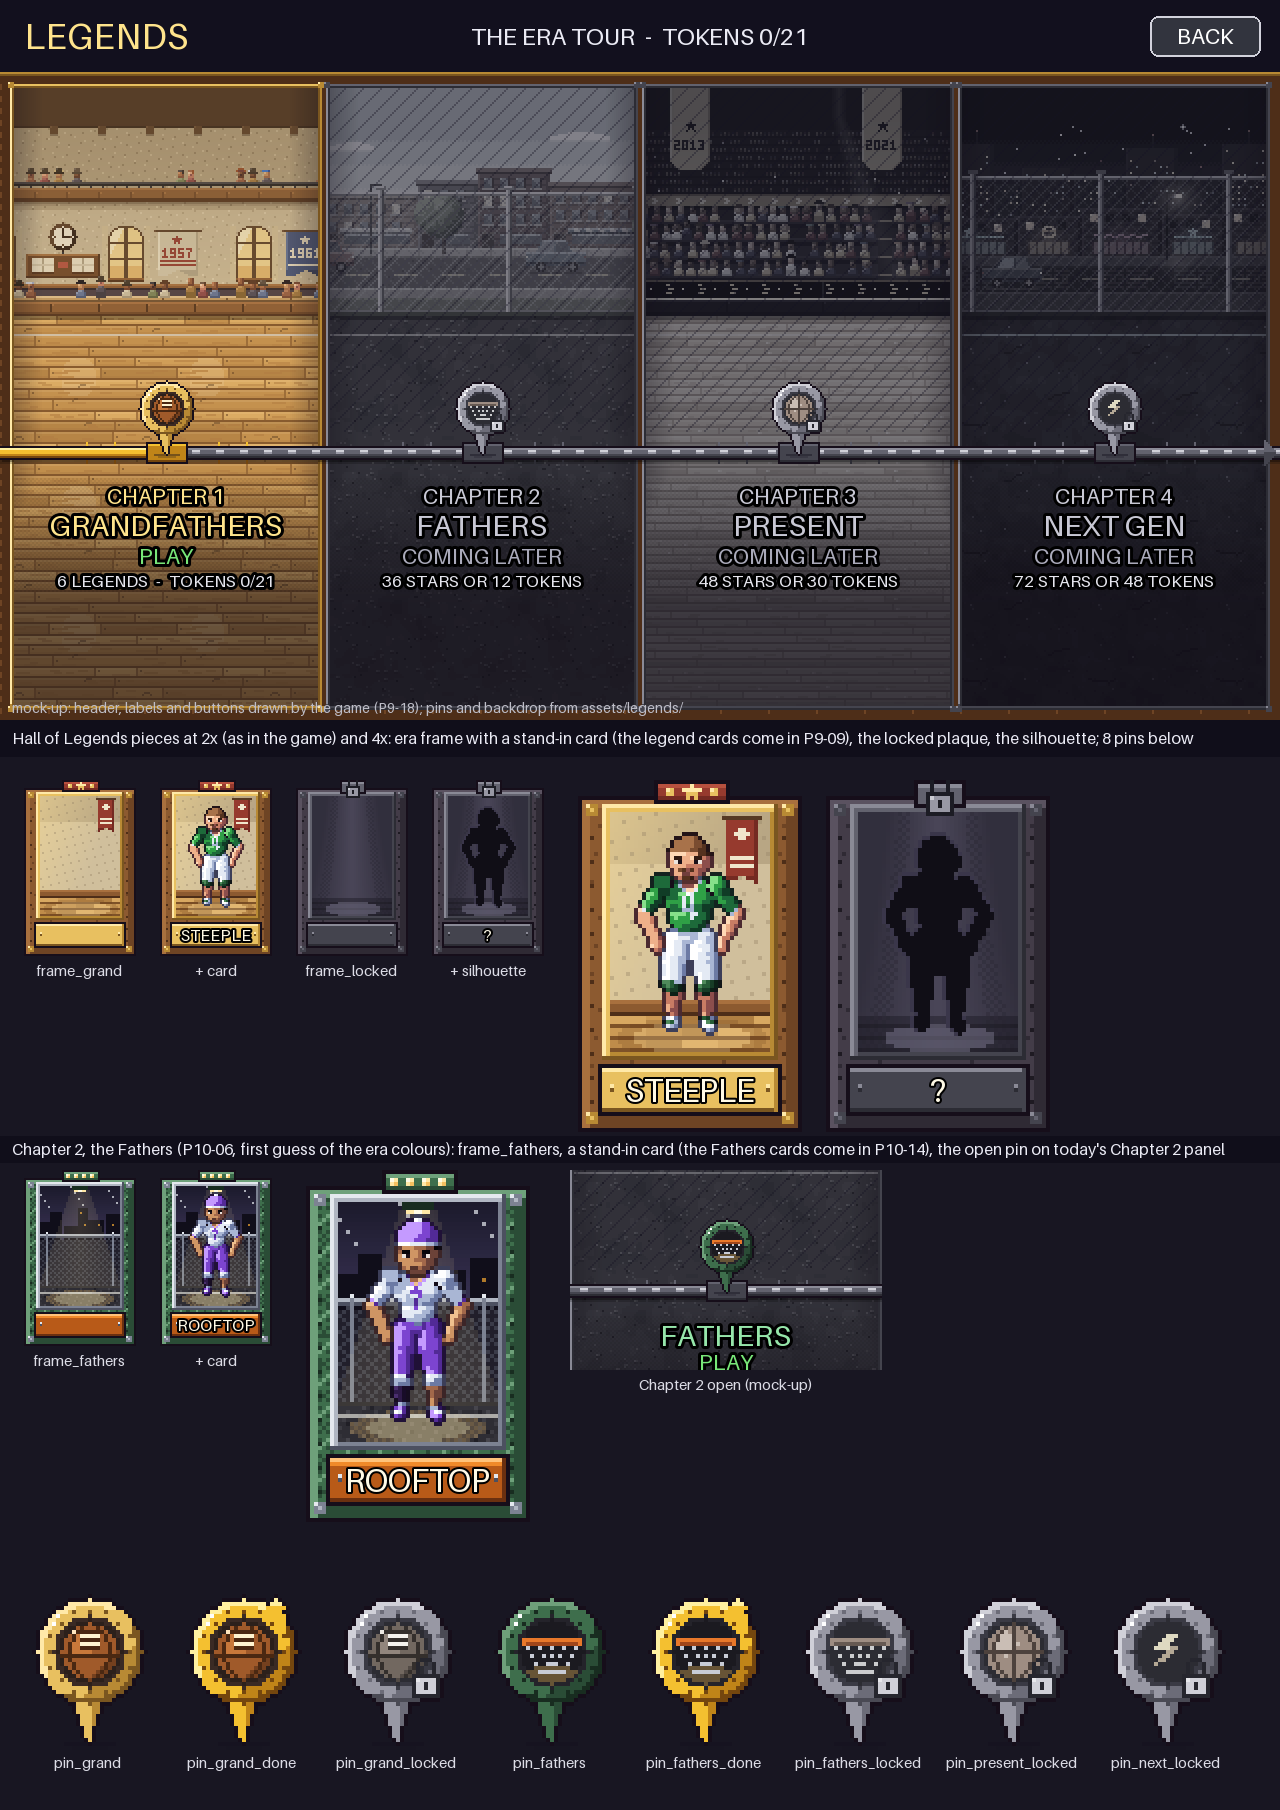
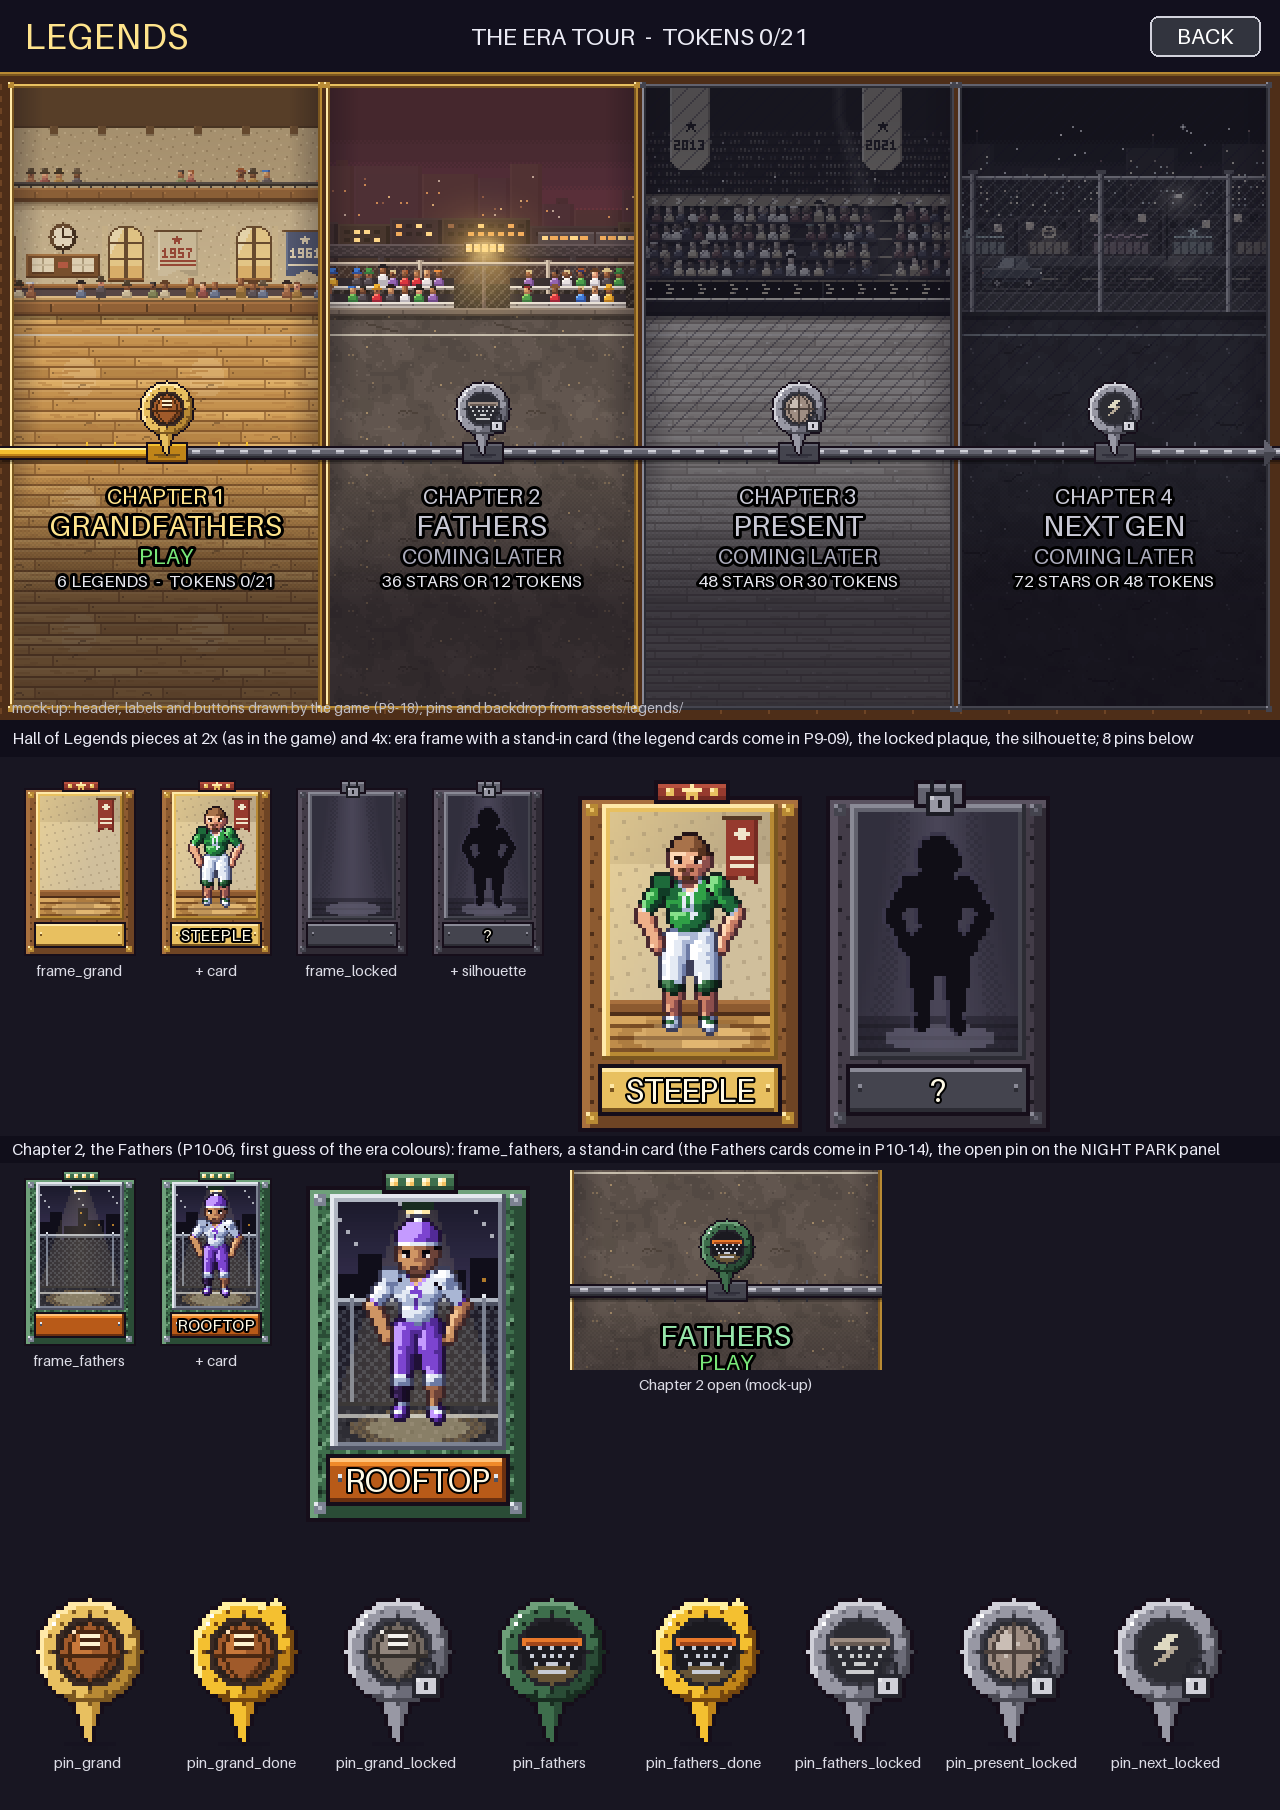
P10 art: Chapter 2 timeline panel shows NIGHT PARK in colour
make_legends_ui.py: the fathers row uses court era_fathers, open, with x0 92
in court_scene() (a floodlight centred, a crowd stand each side). Rewrites
assets/legends/timeline.png (only the Chapter 2 panel changes) and the
preview docs/art/legends_ui.png; every other assets/legends/ file and
ui.json are byte-identical.

Claude-Session: https://claude.ai/code/session_01K8WPuYbTD1xrCASynmgFd3

diff --git a/tools/art/make_legends_ui.py b/tools/art/make_legends_ui.py
@@ -3,13 +3,14 @@
 
 Original pixel art made here, nothing downloaded or traced. The Grandfathers art uses the P9-05 OLD GYM palette
 (make_courts.py: aged maple, dark wainscot wood, felt banners, late-day window light) and its court textures; the
-locked chapters (2-4) show only a dimmed, colourless hint of a court, a padlock and their gate (drawn by the game).
+Fathers panel shows its NIGHT PARK court (era_fathers) in colour too; the later chapters (3-4) show only a dimmed,
+colourless hint of a court, a padlock and their gate (drawn by the game).
 No names, letters, years of real seasons, teams, leagues, arenas or marks.
 
 Usage:  python3 tools/art/make_legends_ui.py
 Output (assets/legends/; texel = one pixel of these images, drawn at 2 canvas px per texel like the map):
   timeline.png            640 x 360 era tour backdrop (2x = 1280 x 720): rows 0..HEADER_H-1 kept for the screen
-                          header, four era panels left to right (1 Grandfathers in colour, 2-4 dimmed), a timeline
+                          header, four era panels left to right (1 Grandfathers and 2 Fathers in colour, 3-4 dimmed), a timeline
                           rail across them; no labels or pins baked in. On 1280 x 800 centre it (y + 40) and fill
                           the bars with "bar_bg".
   pin_grand.png           32 x 40 chapter pin, Chapter 1 open (brass medallion, an old laced ball)
@@ -63,10 +64,8 @@ INK = (22, 14, 26)
 # the four chapters, left to right; "court" = the textures shown in the panel (a hint for the locked ones)
 CHAPTERS = [
     {"id": "grand", "court": "era_grand", "open": True},
-    # P10-06: the Fathers panel keeps today's dim blacktop hint, so timeline.png stays byte for byte. Once P10-05's
-    # assets/courts/era_fathers_floor.png / _backdrop.png exist, set "court": "era_fathers" (and "open": True to show
-    # it in colour, plus an x0 for it in court_scene()); that rewrites timeline.png, so check the tour after.
-    {"id": "fathers", "court": "blacktop", "open": False},
+    # Chapter 2 shows P10-05's NIGHT PARK (era_fathers) in colour like Chapter 1's OLD GYM; its x0 in court_scene()
+    {"id": "fathers", "court": "era_fathers", "open": True},
     {"id": "present", "court": "gold_hall", "open": False},
     {"id": "next", "court": "midnight", "open": False},
 ]
@@ -200,7 +199,7 @@ def court_scene(look, w, h):
     out = np.zeros((h, w, 3), np.uint8)
     top = BD_Y - PANEL_Y0
     bh = bd.shape[0]
-    x0 = {"era_grand": 150, "blacktop": 40, "gold_hall": 200, "midnight": 60}.get(look, 0)  # a busy part of each
+    x0 = {"era_grand": 150, "era_fathers": 92, "blacktop": 40, "gold_hall": 200, "midnight": 60}.get(look, 0)  # a busy part of each
     cols = [(x0 + x) % bd.shape[1] for x in range(w)]
     out[:top, :] = bd[0, cols][None, :, :]
     out[top:top + bh, :] = bd[:, cols][: max(0, min(bh, h - top))]
@@ -778,11 +777,11 @@ def preview(tl, pins, frames, sil):
         nm.text((cxp, cyp), s, font=font(8 * sc), fill=(255, 250, 230), anchor="mm", stroke_width=2,
                 stroke_fill=(0, 0, 0))
     # Chapter 2, the Fathers (P10-06): the frame alone and with a stand-in card at 2x and 4x, and the open pin on
-    # today's dim Chapter 2 panel (the timeline keeps its dim hint until era_fathers court art exists)
+    # the Chapter 2 panel (NIGHT PARK, era_fathers, in colour)
     y = 1170
     d2.rectangle([0, y - 34, 1279, y - 8], fill=(16, 14, 26))
     d2.text((12, y - 21), "Chapter 2, the Fathers (P10-06, first guess of the era colours): frame_fathers, a stand-in "
-                          "card (the Fathers cards come in P10-14), the open pin on today's Chapter 2 panel",
+                          "card (the Fathers cards come in P10-14), the open pin on the NIGHT PARK panel",
              font=font(16), fill=(235, 235, 245), anchor="lm")
     stand2 = card_crop(Image.open(os.path.join(CARDS, "chi_g1.png")).convert("RGBA"))
     fr2 = frames["fathers"].copy()
